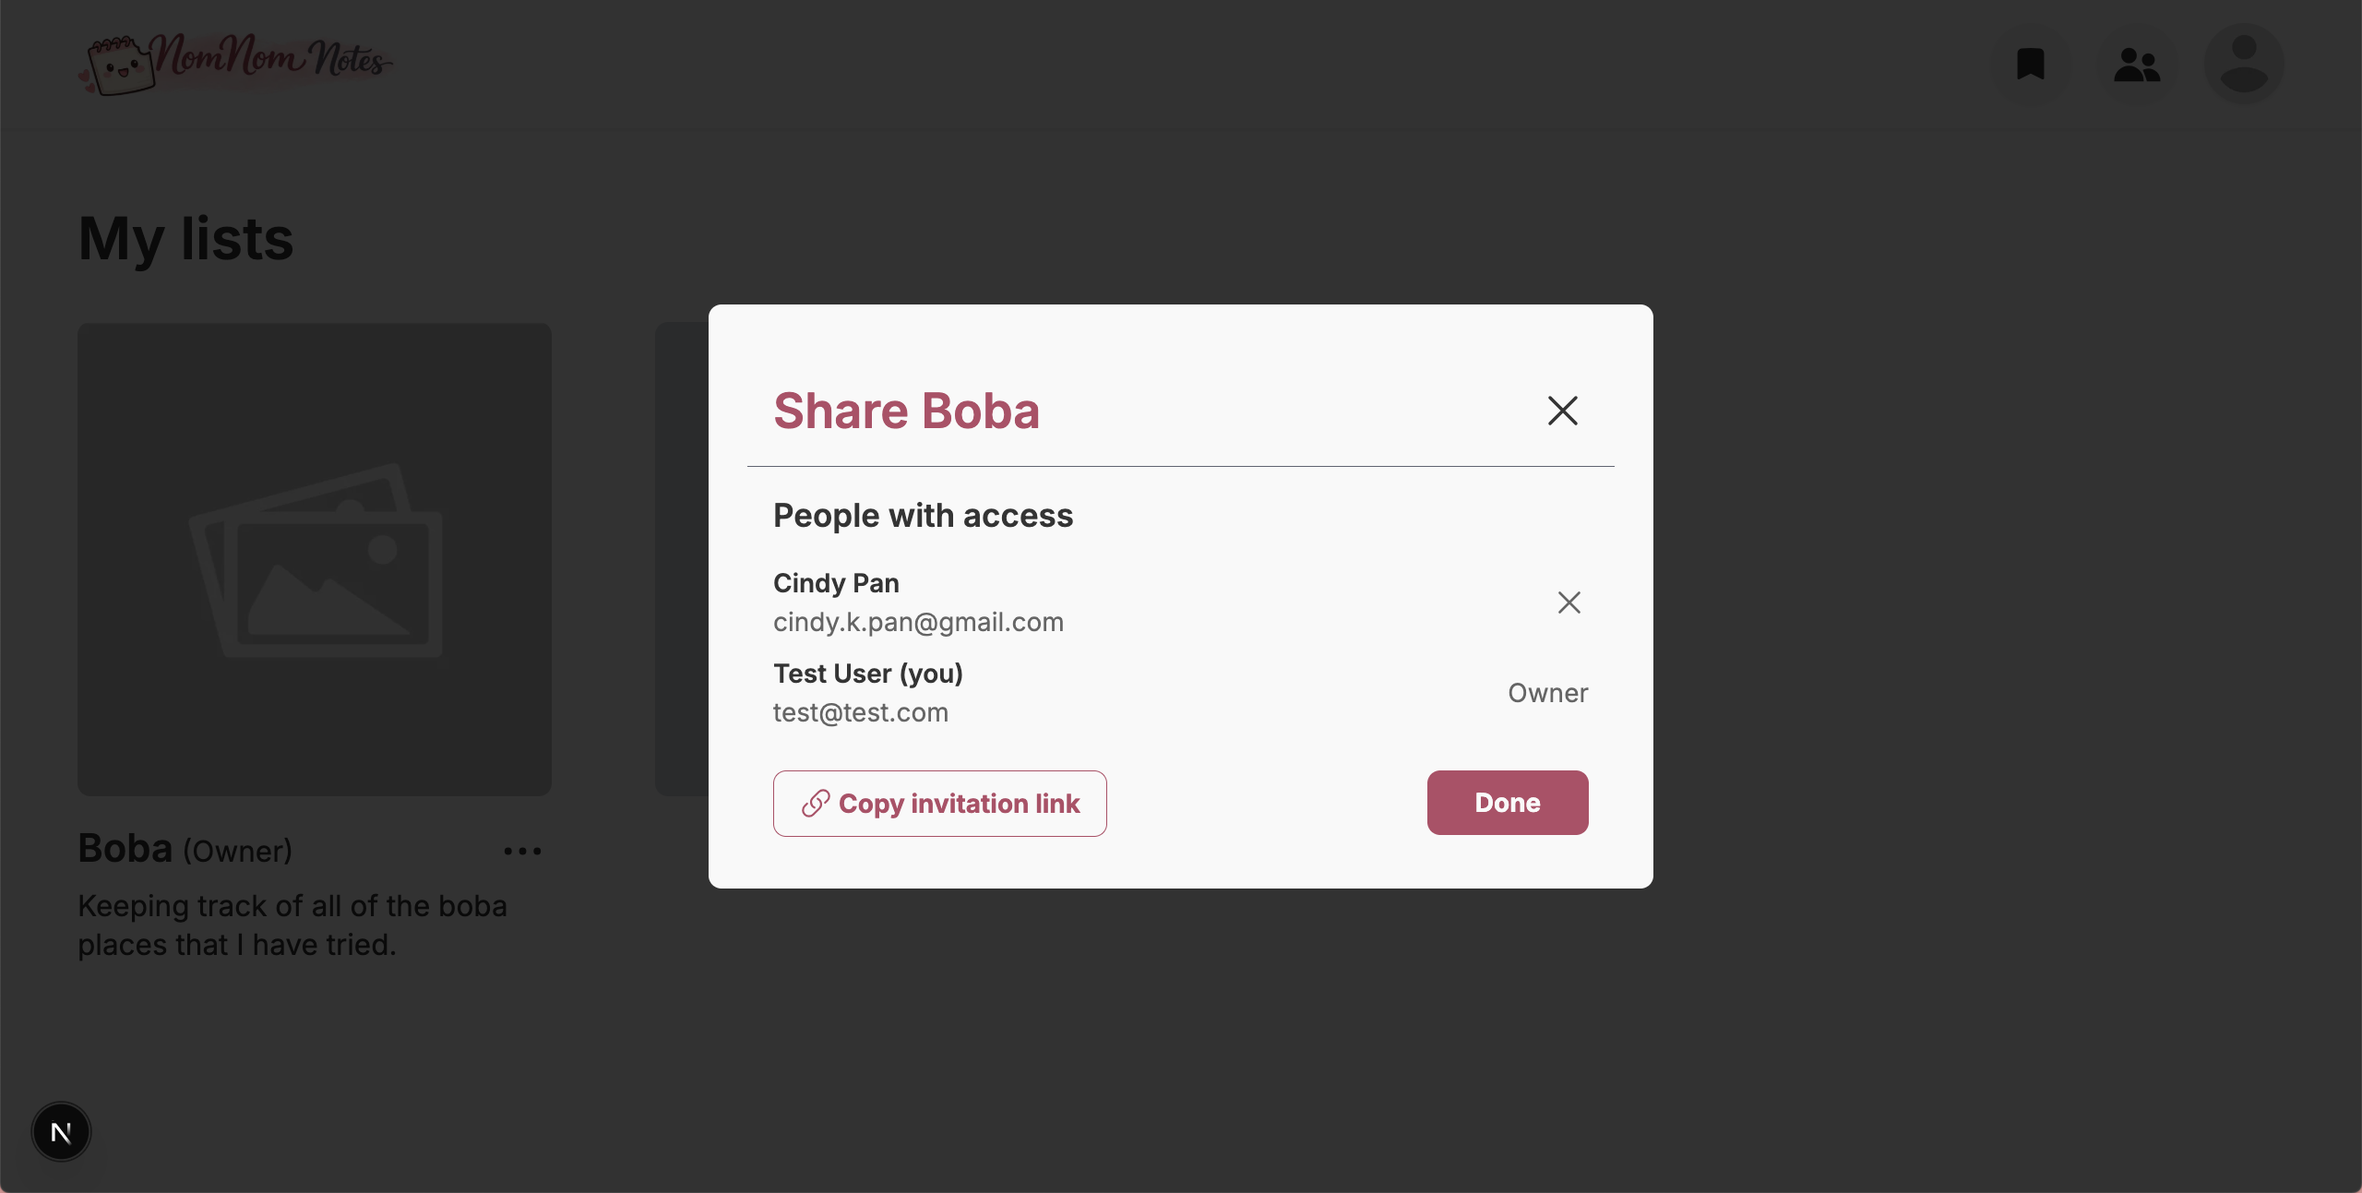
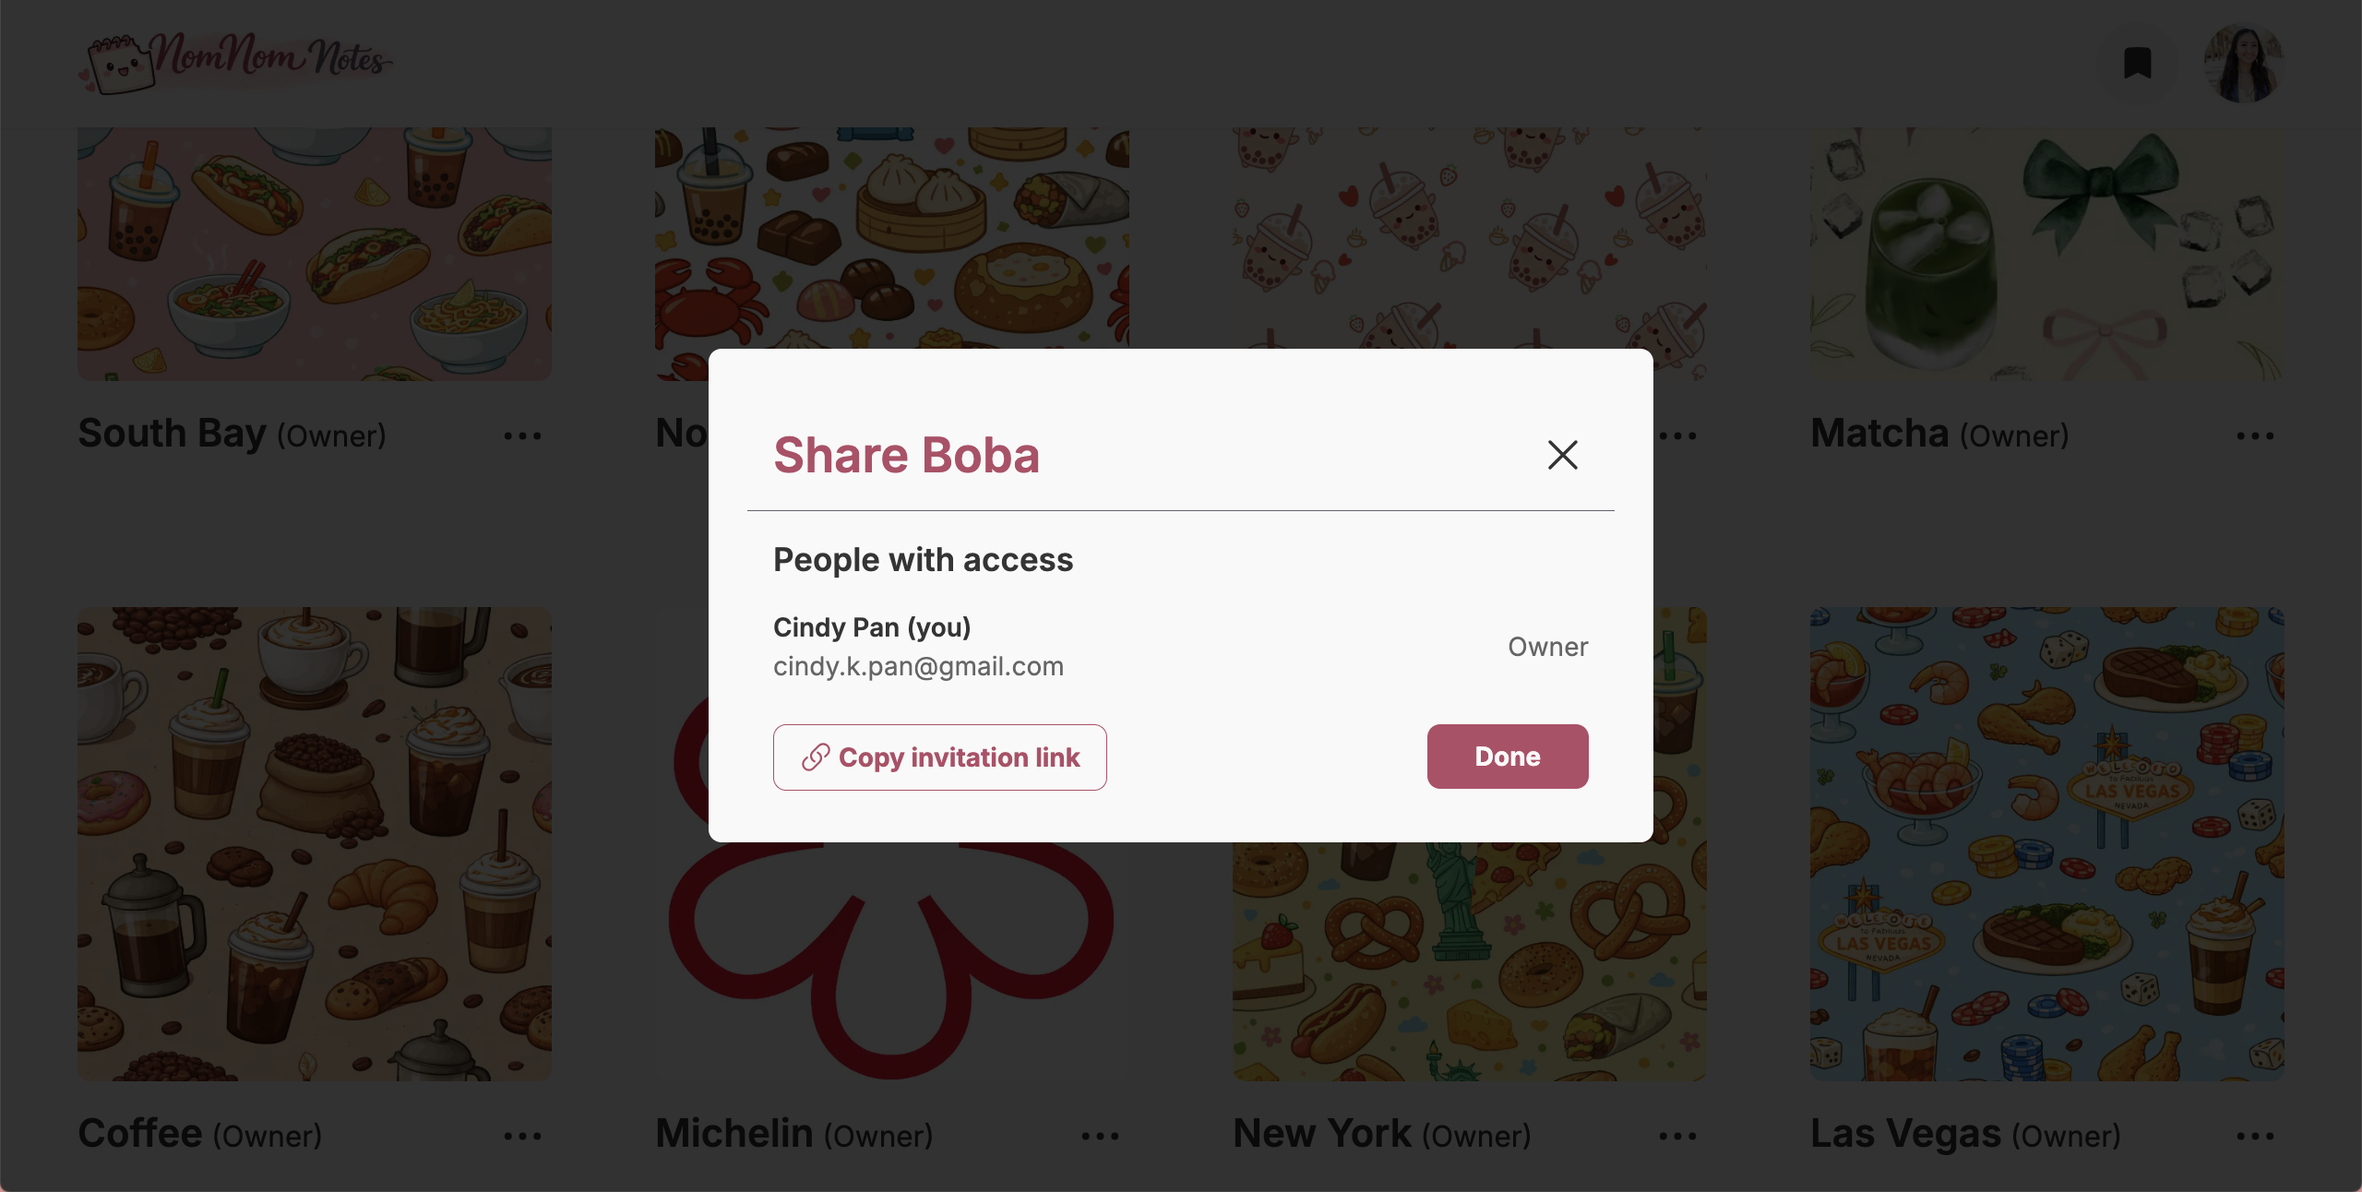
About page design and content refresh

diff --git a/src/app/about/HowItWorks.tsx b/src/app/about/HowItWorks.tsx
@@ -1,47 +1,53 @@
-'use client';
-
-import { Navigation, Pagination } from 'swiper/modules';
-import { Swiper, SwiperSlide } from 'swiper/react';
-import 'swiper/css';
-import 'swiper/css/navigation';
-import 'swiper/css/pagination';
-import 'swiper/css/scrollbar';
-
-// Using <img> instead of Image from next/image because 
-// there are no optimization benefits for animated GIFs,
-// it naturally supports dynamic CSS fluid aspect-ratios
+import Image from 'next/image';
 
 export default function HowItWorks() {
   return (
-    <div className="h-full flex flex-col items-center justify-center gap-4 xl:gap-8">
-      <h2 className="page-heading mt-8 xl:mt-12">How It Works</h2>
-      <Swiper modules={[Navigation, Pagination]} slidesPerView={1}
-        navigation pagination={{ clickable: true }}>
-        <SwiperSlide>
-          <img src="/images/how-it-works/01_create-list.gif" alt="GIF of a test user creating a list" />
-          <p>Create custom lists</p>
-        </SwiperSlide>
-        <SwiperSlide>
-          <img src="/images/how-it-works/02_add-rate-restaurant.gif" alt="GIF of a test user adding/rating a restaurant" />
-          <p>Add restaurants to your lists and rate them</p>
-        </SwiperSlide>
-        <SwiperSlide>
-          <img src="/images/how-it-works/03_add-rate-dish.gif" alt="GIF of a test user adding/rating a dish" />
-          <p>Add dishes you've tried to each restaurant and rate them</p>
-        </SwiperSlide>
-        <SwiperSlide>
-          <img src="/images/how-it-works/04_collaborate.png" alt="Screenshot of users collaborating on the list" />
-          <p>Collaborate on your lists</p>
-        </SwiperSlide>
-        <SwiperSlide>
-          <img src="/images/how-it-works/05_profile.png" alt="Screenshot of a user's profile" />
-          <p>View your profile</p>
-        </SwiperSlide>
-        {/* <SwiperSlide>
-          <img src="/images/how-it-works/" alt="" />
-          <p>Follow your friends</p>
-        </SwiperSlide> */}
-      </Swiper>
+    <div className="flex flex-col items-center gap-8 xl:gap-12">
+      <div className="flex flex-col items-center gap-2 xl:gap-4">
+        <h2>See How It Works</h2>
+        <p className="description pb-2">Follow the journey from creating your first list to documenting memorable dining experiences.</p>
+      </div>
+      <div className="flex flex-col gap-4">
+        <div className="flex-cards">
+          <div className="flex-card">
+            <Image src="/images/how-it-works/01_list.png" alt="NomNom Notes create a list" width={2560} height={1293} className="rounded-[10px]" />
+            <div>
+              <h4>Create a Custom List</h4>
+              <p className="description-sm">Give your list a name, description, and cover photo. Share it publicly with anyone or keep it private for your own collection.</p>
+            </div>
+          </div>
+          <div className="flex-card">
+            <Image src="/images/how-it-works/02_restaurant.png" alt="NomNom Notes add a restaurant" width={2560} height={1292} className="rounded-[10px]" />
+            <div>
+              <h4>Add Restaurants</h4>
+              <p className="description-sm">Search for restaurants with Google Places and organize them into your personalized lists.</p>
+            </div>
+          </div>
+          <div className="flex-card">
+            <Image src="/images/how-it-works/03_dish.png" alt="NomNom Notes add a dish" width={2560} height={1293} className="rounded-[10px]" />
+            <div>
+              <h4>Document Your Experience</h4>
+              <p className="description-sm">Record the dishes you've tried with photos, ratings, and reviews so you'll always remember your favorites.</p>
+            </div>
+          </div>
+        </div>
+        <div className="flex-cards">
+          <div className="flex-card">
+            <Image src="/images/how-it-works/04_collaborate.png" alt="NomNom Notes share list" width={2560} height={1292} className="rounded-[10px]" />
+            <div>
+              <h4>Collaborate with Friends</h4>
+              <p className="description-sm">Invite friends to contribute to shared lists and build collections of your favorite restaurants together.</p>
+            </div>
+          </div>
+          <div className="flex-card">
+            <Image src="/images/how-it-works/05_profile.png" alt="NomNom Notes profile page" width={2560} height={1293} className="rounded-[10px]" />
+            <div>
+              <h4>Build Your Food Journal</h4>
+              <p className="description-sm">Your profile automatically showcases the restaurants you've visited, dishes you've loved, reviews you've written, and lists you've created.</p>
+            </div>
+          </div>
+        </div>
+      </div>
     </div>
   );
 }

diff --git a/src/app/globals.css b/src/app/globals.css
@@ -7,6 +7,7 @@
 }
 
 @theme {
+  --color-extralightpink: #FEF3F5;
   --color-lightpink: #FDECEF;
   --color-dustypink: #E8B4BC;
   --color-lightgray: #D9DCE1;
@@ -47,11 +48,18 @@
   .full-screen-page-layout-inner {
     @apply min-h-0 max-w-[1440px] w-full flex flex-col flex-1;
   }
-  .snap-scroll {
-    @apply overflow-y-auto snap-y snap-mandatory;
+  .homepage-layout {
+    @apply h-full w-full flex flex-col flex-1 gap-1 overflow-y-auto;
   }
-  .snap-scroll section {
-    @apply min-h-[calc(100vh-60px)] w-full snap-start md:min-h-[calc(100vh-80px)];
+  .homepage-layout-inner {
+    @apply p-8 xl:p-12;
+  }
+  .homepage-layout section.bg-texture {
+    @apply min-h-[calc(100vh-60px)] md:min-h-[calc(100vh-80px)]
+      bg-[url('/images/bg-texture.png')] bg-cover bg-center bg-no-repeat;
+  }
+  .homepage-layout section:not(.bg-texture) {
+    @apply max-w-[1440px] w-full m-auto py-12 xl:py-16;
   }
 
   /** navigation **/ 
@@ -60,7 +68,7 @@
     background: #F3F3F3;
   }
   .nav-button-text {
-    @apply px-6 py-2 flex items-center justify-center rounded-lg font-semibold shadow-[0_1px_2px_rgba(0,0,0,0.06)] hover:shadow-[0_2px_4px_rgba(0,0,0,0.08)] transition;
+    @apply px-6 py-2 flex items-center justify-center rounded-[10px] shadow-[0_1px_2px_rgba(0,0,0,0.06)] hover:shadow-[0_2px_4px_rgba(0,0,0,0.08)] transition;
     background: #F3F3F3;
   }
   .nav-submenu {
@@ -71,28 +79,43 @@
   }
 
   /** headings **/ 
-  .page-heading {
-    @apply text-3xl font-semibold xl:text-4xl;
+  h1 {
+    @apply text-5xl/14 font-light xl:text-6xl/18;
   }
-  .page-subheading {
-    @apply pb-2 text-xl font-semibold xl:text-2xl;
+  h2 {
+    @apply text-4xl font-light xl:text-5xl;
+  }
+  h3 {
+    @apply text-3xl font-light xl:text-4xl;
+  }
+  h4 {
+    @apply text-lg font-normal xl:text-xl;
+  }
+  p.subheading {
+    @apply text-xl font-extralight xl:text-2xl;
+  }
+  p.description {
+    @apply text-lg font-extralight xl:text-xl;
+  }
+  p.description-sm {
+    @apply text-base font-extralight xl:text-lg;
   }
 
   /** buttons & links **/ 
   .button-primary {
-    @apply min-w-[100px] px-4 py-2 self-start text-snowwhite font-bold bg-darkpink rounded-lg cursor-pointer hover:bg-mauve transition-colors;
+    @apply min-w-[100px] px-4 py-2 self-start text-snowwhite bg-darkpink rounded-[10px] cursor-pointer hover:bg-mauve transition-colors;
   }
   .button-secondary {
-    @apply min-w-[100px] px-4 py-2 self-start text-darkpink font-bold bg-transparent border border-darkpink rounded-lg cursor-pointer hover:text-mauve hover:border-mauve transition-colors;
+    @apply min-w-[100px] px-4 py-2 self-start text-darkpink bg-transparent border border-darkpink rounded-[10px] cursor-pointer hover:text-mauve hover:border-mauve transition-colors;
   }
   .button-disabled {
-    @apply min-w-[100px] px-4 py-2 self-start text-charcoal font-bold bg-lightgray border border-lightgray rounded-lg cursor-not-allowed;
+    @apply min-w-[100px] px-4 py-2 self-start text-charcoal bg-lightgray border border-lightgray rounded-[10px] cursor-not-allowed;
   }
   .link {
     @apply font-semibold cursor-pointer hover:text-mauve transition-colors;
   }
   .link-cta {
-    @apply inline-flex items-center gap-1 text-darkpink font-semibold hover:text-mauve transition-colors;
+    @apply inline-flex items-center gap-1 text-darkpink hover:text-mauve transition-colors;
   }
 
   /** reusable components **/ 
@@ -112,6 +135,12 @@
     line-clamp: 3;
     overflow: hidden;
     text-overflow: ellipsis;
+  }
+  .flex-cards {
+    @apply w-full flex flex-1 gap-4;
+  }
+  .flex-card {
+    @apply w-full p-12 flex flex-col gap-10 bg-extralightpink border border-dashed border-lightgray rounded-2xl;
   }
   .tabs {
     @apply w-full pb-8 flex flex-col gap-8 xl:pb-16 xl:flex-row xl:gap-16;
@@ -165,7 +194,7 @@
     @apply space-y-2;
   }
   .checklist li {
-    @apply flex items-start gap-2 text-lg xl:text-xl;
+    @apply flex items-start gap-2 text-lg font-extralight xl:text-xl;
   }
   .checklist li span {
     @apply xl:pt-[2px];
@@ -189,7 +218,7 @@
     @apply w-full h-auto;
   }
   .swiper-slide p {
-    @apply pt-4 pb-12 text-lg text-center md:text-2xl;
+    @apply pt-4 pb-12 text-xl font-extralight text-center md:text-2xl;
   }
 
   /** modals & alerts **/ 
@@ -226,7 +255,7 @@
     @apply pb-4 text-base font-semibold text-center;
   }
   .input {
-    @apply h-[40px] px-2 py-1 mb-6 border border-charcoal rounded-sm focus:outline-none focus:border-darkpink focus:shadow-(--input-shadow);
+    @apply h-[40px] px-4 py-3 mb-6 font-light border border-lightgray rounded-[10px] focus:outline-none focus:border-darkpink focus:shadow-(--input-shadow);
   }
   textarea.input {
     @apply h-[100px] lg:h-auto

diff --git a/src/app/about/Hero.tsx b/src/app/about/Hero.tsx
@@ -29,42 +29,37 @@ export default function Hero() {
   }
 
   return (
-    <div className="h-full grid grid-cols-2 place-content-center gap-8 xl:gap-12">
-      <div className="flex flex-col justify-center gap-4 xl:gap-8">
-        <h1 className="page-heading">Your Personal Restaurant Journal</h1>
-        <p className="page-subheading">Record memorable dining experiences, keep track of every restaurant you've visited, and remember every dish you've loved.</p>
-        <div>
-          <form onSubmit={handleSubmit} className="flex gap-2">
-            <input id="requestor-email" name="requestor-email" type="email" placeholder="Enter your email" value={inputEmail} onChange={(e) => setInputEmail(e.target.value)}
-              className="input flex-1 mb-2" autoComplete="off" />
-            <button type="submit" className="button-primary shrink-0 whitespace-nowrap">
-              {pending
-                ? (<svg xmlns="http://www.w3.org/2000/svg" fill="none" viewBox="0 0 24 24" strokeWidth={1.5} stroke="currentColor" className="block m-auto size-6 animate-spin" >
-                  <path strokeLinecap="round" strokeLinejoin="round" d="M16.023 9.348h4.992v-.001M2.985 19.644v-4.992m0 0h4.992m-4.993 0 3.181 3.183a8.25 8.25 0 0 0 13.803-3.7M4.031 9.865a8.25 8.25 0 0 1 13.803-3.7l3.181 3.182m0-4.991v4.99" />
-                </svg>)
-                : ("Get access")
-              }
-            </button>
-          </form>
-          { // Display a message if it exists
-            message && (
-              <p className="font-semibold">{message}</p>
-            )
-          }
-        </div>
-        <p>
+    <div className="max-w-[640px] mx-auto mt-[20vh] flex flex-col items-center gap-4 text-center xl:gap-8">
+      <h1>Your Personal Restaurant Journal</h1>
+      <p className="subheading pb-2">Record memorable dining experiences, keep track of every restaurant you've visited, and remember every dish you've loved.</p>
+      <div className="max-w-[500px] w-full p-8 bg-snowwhite border border-lightgray rounded-3xl">
+        <form onSubmit={handleSubmit} className="flex flex-col gap-2">
+          <input id="requestor-email" name="requestor-email" type="email" placeholder="Enter your email" value={inputEmail} onChange={(e) => setInputEmail(e.target.value)}
+            className="input flex-1 mb-2" autoComplete="off" />
+          <button type="submit" className="button-primary w-full">
+            {pending
+              ? (<svg xmlns="http://www.w3.org/2000/svg" fill="none" viewBox="0 0 24 24" strokeWidth={1.5} stroke="currentColor" className="block m-auto size-6 animate-spin" >
+                <path strokeLinecap="round" strokeLinejoin="round" d="M16.023 9.348h4.992v-.001M2.985 19.644v-4.992m0 0h4.992m-4.993 0 3.181 3.183a8.25 8.25 0 0 0 13.803-3.7M4.031 9.865a8.25 8.25 0 0 1 13.803-3.7l3.181 3.182m0-4.991v4.99" />
+              </svg>)
+              : ("Get access")
+            }
+          </button>
+        </form>
+        { // Display a message if it exists
+          message && (
+            <p className="mt-2">{message}</p>
+          )
+        }
+        <p className="mt-8 font-light">
           Already have an access code?{" "}
-          <Link href="/sign-up" className="link-cta group">
+          <Link href="/sign-up" className="link-cta group font-normal">
             <span>Get started now</span>
-            <svg xmlns="http://www.w3.org/2000/svg" fill="none" viewBox="0 0 24 24" strokeWidth={2} stroke="currentColor"
+            <svg xmlns="http://www.w3.org/2000/svg" fill="none" viewBox="0 0 24 24" strokeWidth={1.5} stroke="currentColor"
               className="size-6 transition-transform group-hover:translate-x-1">
               <path strokeLinecap="round" strokeLinejoin="round" d="M17.25 8.25 21 12m0 0-3.75 3.75M21 12H3" />
             </svg>
           </Link>
         </p>
-      </div>
-      <div className="flex items-center justify-end">
-        <img src="https://placehold.co/600" />
       </div>
     </div>
   );

diff --git a/src/app/about/Overview.tsx b/src/app/about/Overview.tsx
@@ -1,28 +1,36 @@
+import Image from 'next/image';
+
 export default function Overview() {
   return (
-    <div className="h-full grid grid-cols-2 place-content-center gap-8 xl:gap-12">
-      <div className="flex items-center">
-        <img src="https://placehold.co/600" />
+    <div className="flex flex-col items-center gap-8 xl:gap-12">
+      <div className="flex flex-col items-center gap-2 xl:gap-4">
+        <h2>Discover the Features</h2>
+        <p className="description pb-2">Explore the tools that help you organize, remember, and share your favorite dining experiences.</p>
       </div>
-      <div className="flex flex-col justify-center gap-4 xl:gap-8">
-        <h2 className="page-heading">Discover the Features</h2>
-        <ul className="checklist">
-          {[
-            "Create custom restaurant lists",
-            "Keep track of every restaurant you've visited and every dish you've tried",
-            "Rate and review your favorites so you'll always remember them",
-            "Collaborate on shared lists with friends",
-            "See where your friends have been dining",
-          ].map((item) => (
-            <li key={item}>
-              <svg xmlns="http://www.w3.org/2000/svg" fill="none" viewBox="0 0 24 24" strokeWidth={1.5} stroke="currentColor" 
-                className="shrink-0 size-7 text-darkpink xl:size-8">
-                <path strokeLinecap="round" strokeLinejoin="round" d="M9 12.75 11.25 15 15 9.75M21 12a9 9 0 1 1-18 0 9 9 0 0 1 18 0Z" />
-              </svg>
-              <span>{item}</span>
-            </li>
-          ))}
-        </ul>
+      <div className="grid gap-8 md:grid-cols-2 xl:gap-12">
+        <div className="flex items-center">
+          <Image src="/images/home-features_720x540.png" alt="A screenshot of NomNom Notes in a monitor" width={720} height={540} 
+            className="rounded-2xl" />
+        </div>
+        <div className="flex flex-col justify-center gap-4 xl:gap-8">
+          <ul className="checklist">
+            {[
+              "Create custom restaurant lists",
+              "Keep track of every restaurant you've visited and every dish you've tried",
+              "Rate and review your favorites so you'll always remember them",
+              "Collaborate on shared lists with friends",
+              "See where your friends have been dining",
+            ].map((item) => (
+              <li key={item}>
+                <svg xmlns="http://www.w3.org/2000/svg" fill="none" viewBox="0 0 24 24" strokeWidth={1} stroke="currentColor"
+                  className="shrink-0 size-7 text-darkpink xl:size-8">
+                  <path strokeLinecap="round" strokeLinejoin="round" d="M9 12.75 11.25 15 15 9.75M21 12a9 9 0 1 1-18 0 9 9 0 0 1 18 0Z" />
+                </svg>
+                <span>{item}</span>
+              </li>
+            ))}
+          </ul>
+        </div>
       </div>
     </div>
   );

diff --git a/src/app/about/page.tsx b/src/app/about/page.tsx
@@ -13,11 +13,11 @@ export default async function Page() {
       { // Display a different nav bar for public users
         userId === 'public' ? <PublicNav /> : <Nav userId={userId} />
       }
-      <div className="page-layout snap-scroll">
-        <div className="page-layout-inner">
-          <section>
-            <Hero />
-          </section>
+      <div className="homepage-layout">
+        <section className="bg-texture">
+          <Hero />
+        </section>
+        <div className="homepage-layout-inner">
           <section>
             <Overview />
           </section>
